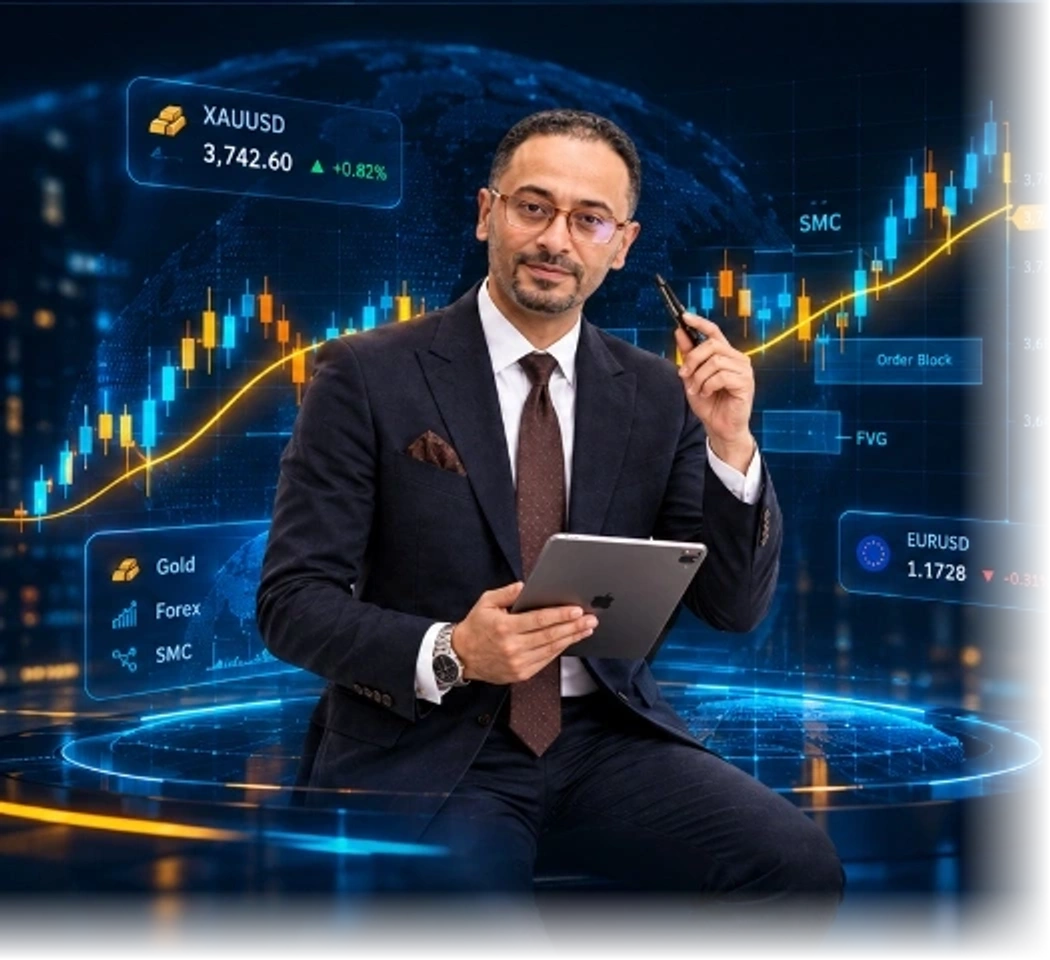
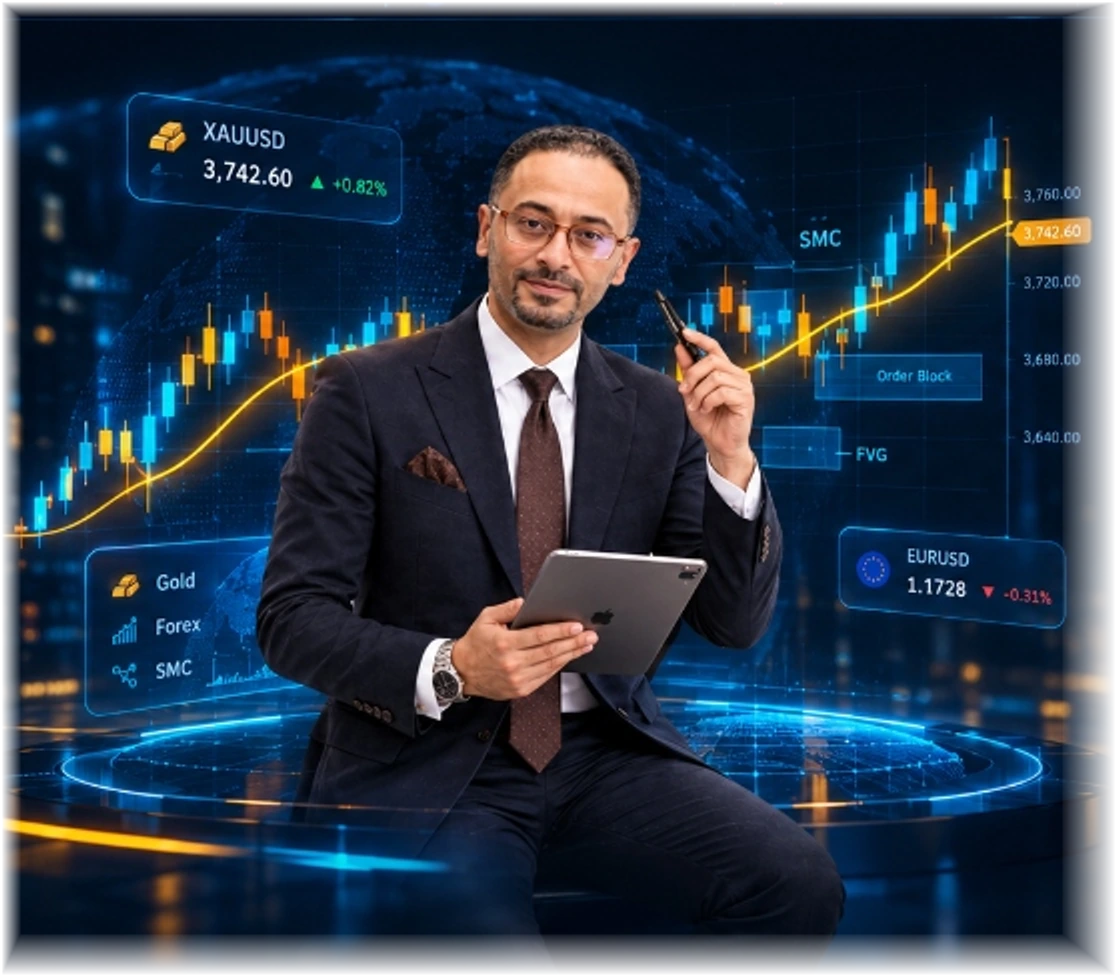
feat(hero): optimize responsive styles and feathered edge blending for fintech visual

diff --git a/frontend/app/globals.css b/frontend/app/globals.css
@@ -1470,3 +1470,62 @@ textarea:focus {
     opacity: 0.55;
   }
 }
+
+/* ═══════════════════════════════════════════════════════════════
+   HERO SECTION - REFERENCE REDESIGN RESPONSIVE STYLES
+   ═══════════════════════════════════════════════════════════════ */
+.hero-reference-grid {
+  display: grid;
+  grid-template-columns: minmax(0, 1.05fr) minmax(0, 0.95fr);
+  gap: clamp(2rem, 3.5vw, 4rem);
+  align-items: center;
+  width: 100%;
+  position: relative;
+  z-index: 2;
+}
+
+@media (max-width: 991px) {
+  .hero-reference-grid {
+    grid-template-columns: 1fr !important;
+    gap: 2.25rem !important;
+    text-align: center !important;
+  }
+  .hero-reference-content {
+    align-items: center !important;
+    text-align: center !important;
+  }
+  .hero-reference-content p {
+    text-align: center !important;
+    margin-left: auto !important;
+    margin-right: auto !important;
+  }
+  .hero-reference-content > div {
+    justify-content: center !important;
+  }
+  .hero-reference-stats {
+    justify-content: center !important;
+    gap: 1.5rem !important;
+  }
+  .hero-reference-visual {
+    order: -1 !important;
+    max-width: 92% !important;
+    margin: 0 auto !important;
+  }
+}
+
+@media (max-width: 576px) {
+  .hero-reference-stats {
+    display: flex !important;
+    flex-wrap: wrap !important;
+    justify-content: space-around !important;
+    gap: 1rem !important;
+    text-align: center !important;
+    width: 100% !important;
+  }
+  .hero-reference-stats > div {
+    align-items: center !important;
+  }
+  .hero-reference-stats .hide-mobile {
+    display: none !important;
+  }
+}
